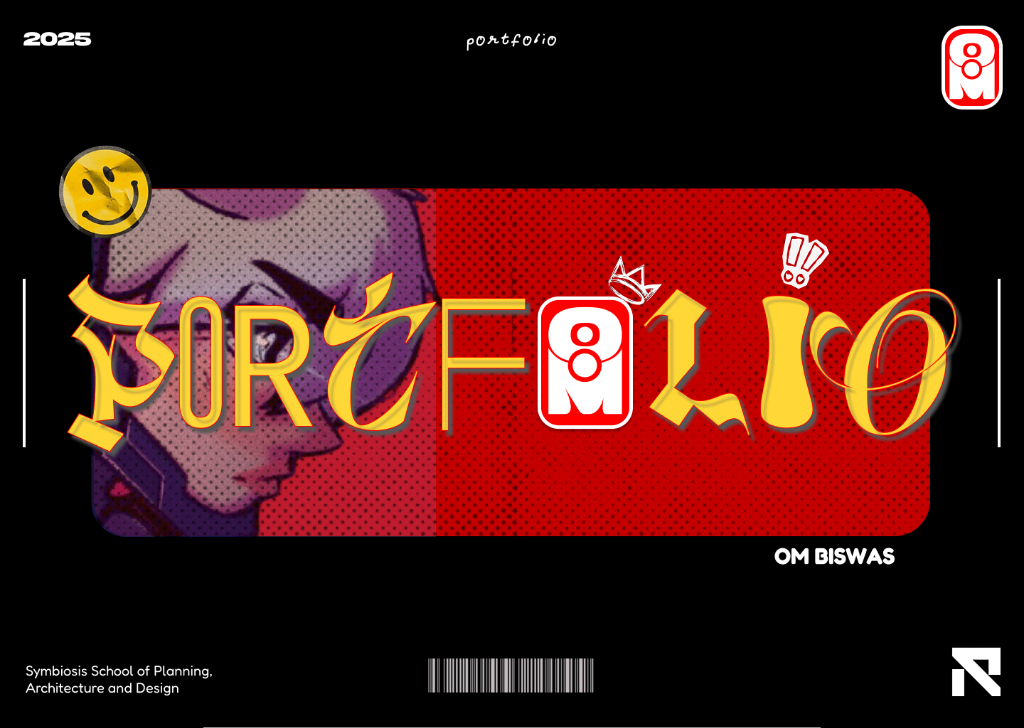
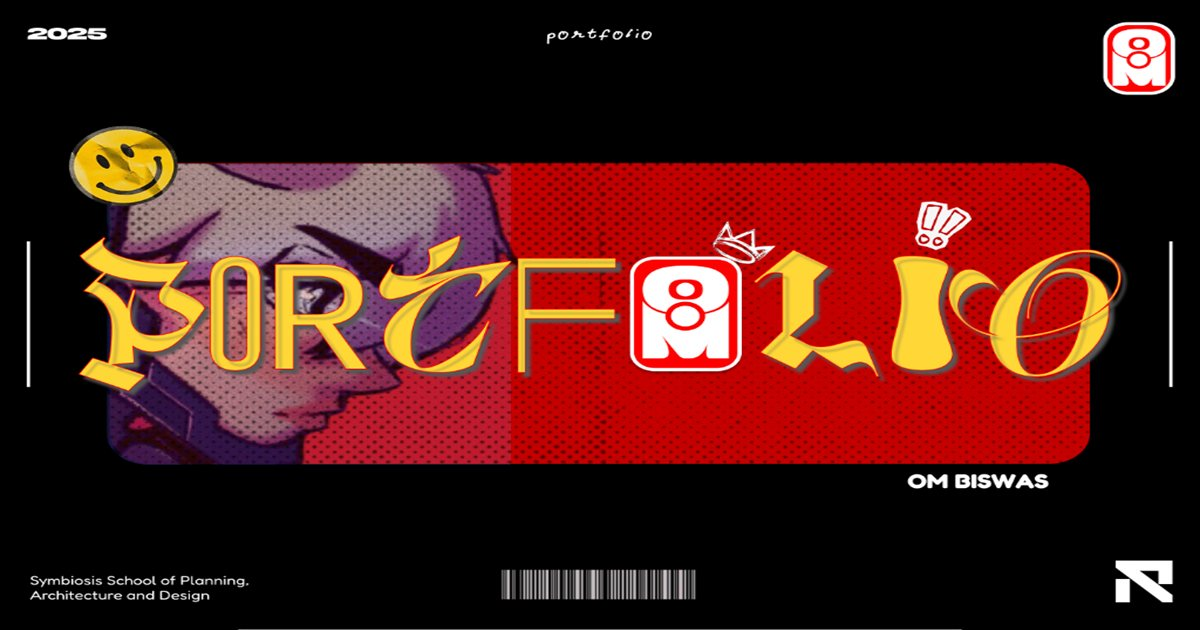
fix: optimize og-image to 1200x630 JPEG (100KB) and add og:image:type and secure_url

diff --git a/index.html b/index.html
@@ -19,7 +19,9 @@
       property="og:description"
       content="UX/UI and product designer in Nagpur. I conduct user research, map information architecture, and build interfaces. View selected work."
     />
-    <meta property="og:image" content="https://portfolio-assignment-uedp.vercel.app/og-image.png" />
+    <meta property="og:image" content="https://portfolio-assignment-uedp.vercel.app/og-image.jpg" />
+    <meta property="og:image:secure_url" content="https://portfolio-assignment-uedp.vercel.app/og-image.jpg" />
+    <meta property="og:image:type" content="image/jpeg" />
     <meta property="og:image:width" content="1200" />
     <meta property="og:image:height" content="630" />
     <meta property="og:image:alt" content="OMI's Portfolio Preview" />
@@ -32,7 +34,7 @@
       name="twitter:description"
       content="UX/UI and product designer in Nagpur. I conduct user research, map information architecture, and build interfaces. View selected work."
     />
-    <meta name="twitter:image" content="https://portfolio-assignment-uedp.vercel.app/og-image.png" />
+    <meta name="twitter:image" content="https://portfolio-assignment-uedp.vercel.app/og-image.jpg" />
 
     <!-- Google tag (gtag.js) -->
     <script async src="https://www.googletagmanager.com/gtag/js?id=G-WQXWZKT5DC"></script>
